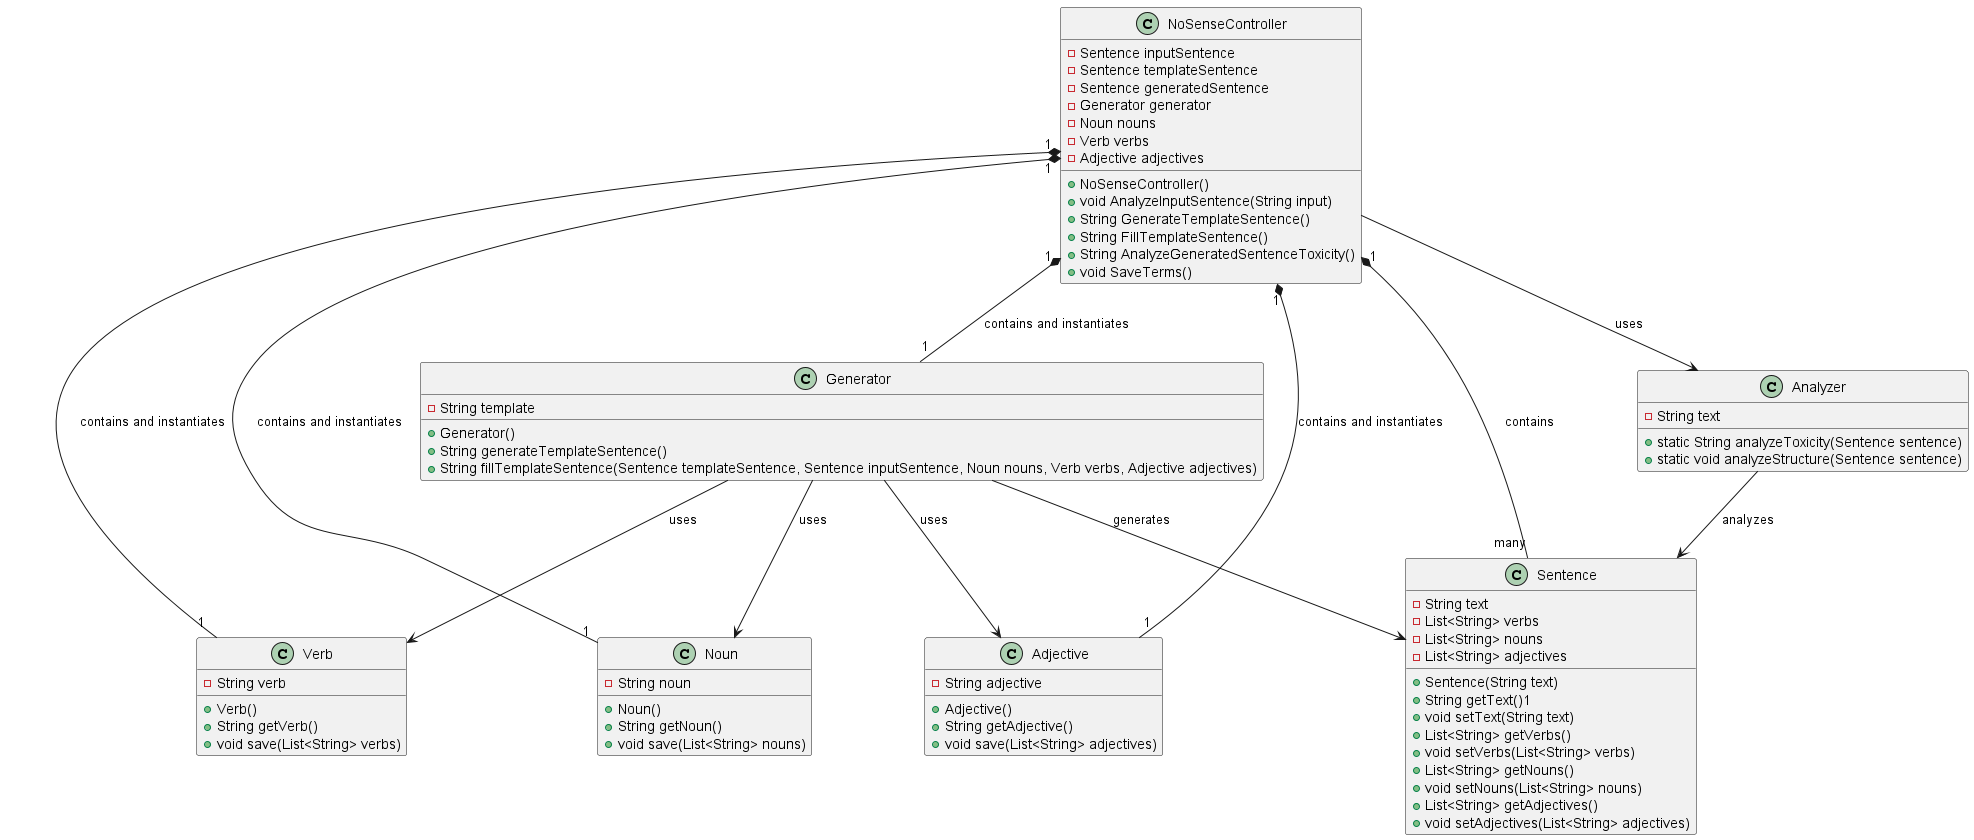
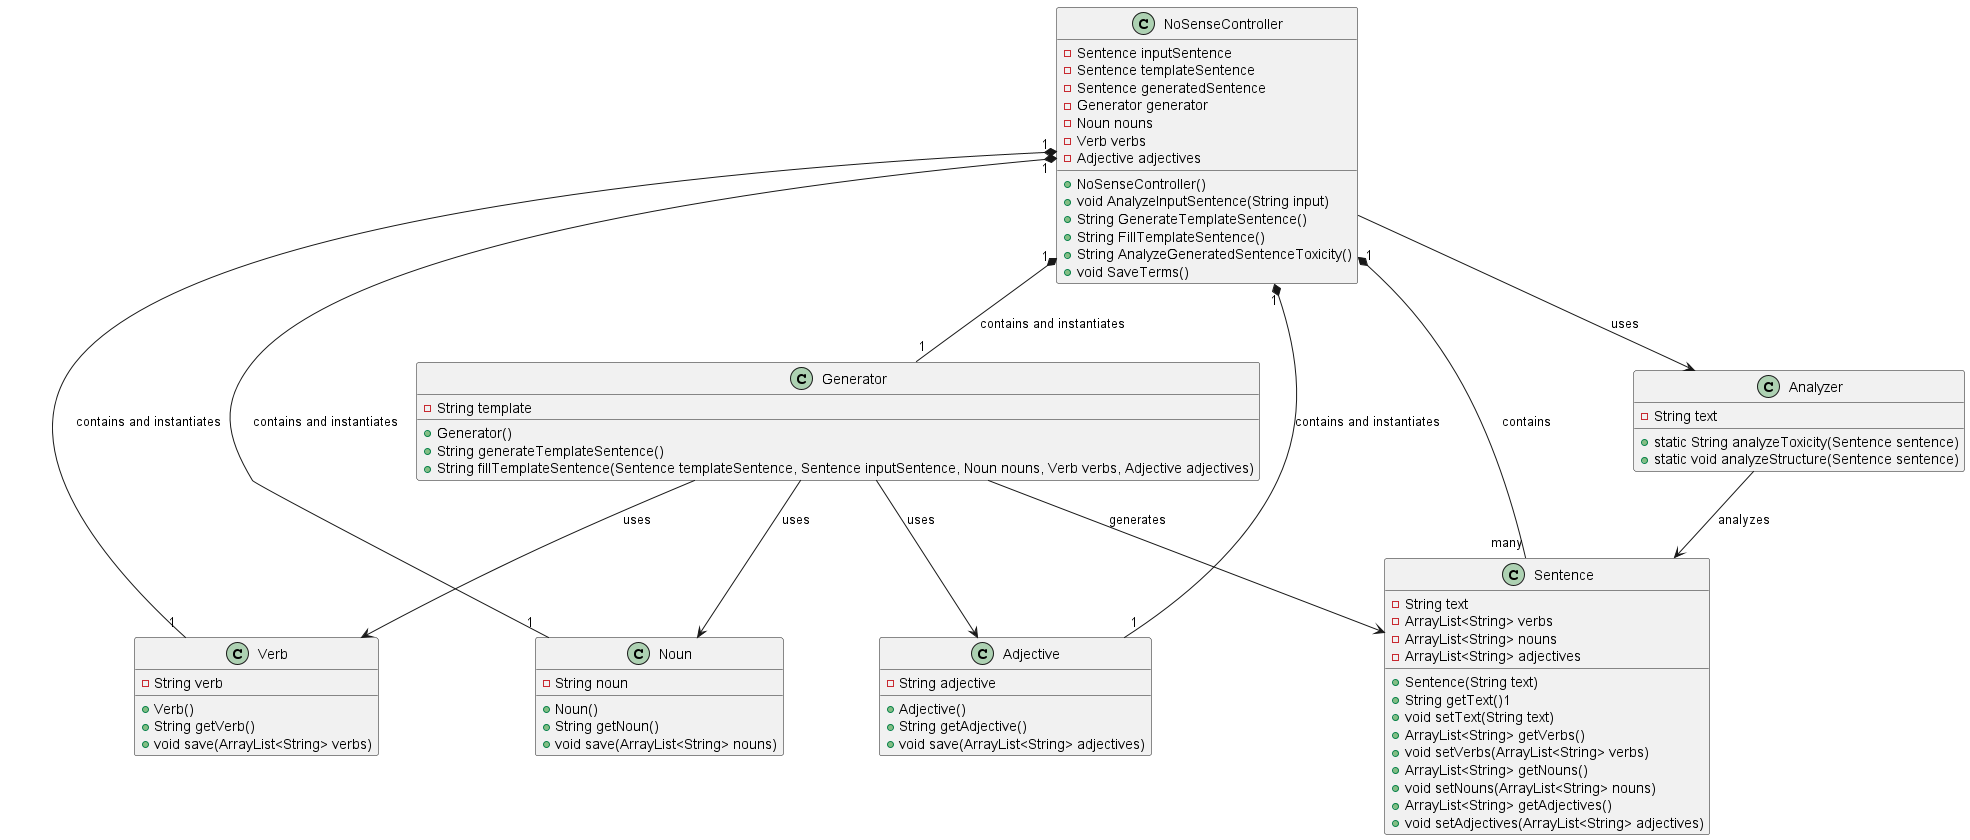
EDIT - List to ArrayList

diff --git a/src/main/java/nosensegenerator/nosense/Sentence.java b/src/main/java/nosensegenerator/nosense/Sentence.java
@@ -1,12 +1,12 @@
 package nosensegenerator.nosense;
 
-import java.util.List;
+import java.util.ArrayList;
 
 public class Sentence {
     private String text;
-    private List<String> verbs;
-    private List<String> nouns;
-    private List<String> adjectives;
+    private ArrayList<String> verbs;
+    private ArrayList<String> nouns;
+    private ArrayList<String> adjectives;
     //aggiungere i gli attributi per il resto dei risultati del analisi
     
     public Sentence(String text) {
@@ -18,22 +18,22 @@ public class Sentence {
     public void setText(String text) {
         this.text = text;
     }
-    public List<String> getVerbs() {
+    public ArrayList<String> getVerbs() {
         return verbs;
     }
-    public void setVerbs(List<String> verbs) {
+    public void setVerbs(ArrayList<String> verbs) {
         this.verbs = verbs;
     }
-    public List<String> getNouns() {
+    public ArrayList<String> getNouns() {
         return nouns;
     }
-    public void setNouns(List<String> nouns) {
+    public void setNouns(ArrayList<String> nouns) {
         this.nouns = nouns;
     }
-    public List<String> getAdjectives() {
+    public ArrayList<String> getAdjectives() {
         return adjectives;
     }
-    public void setAdjectives(List<String> adjectives) {
+    public void setAdjectives(ArrayList<String> adjectives) {
         this.adjectives = adjectives;
     }
     
